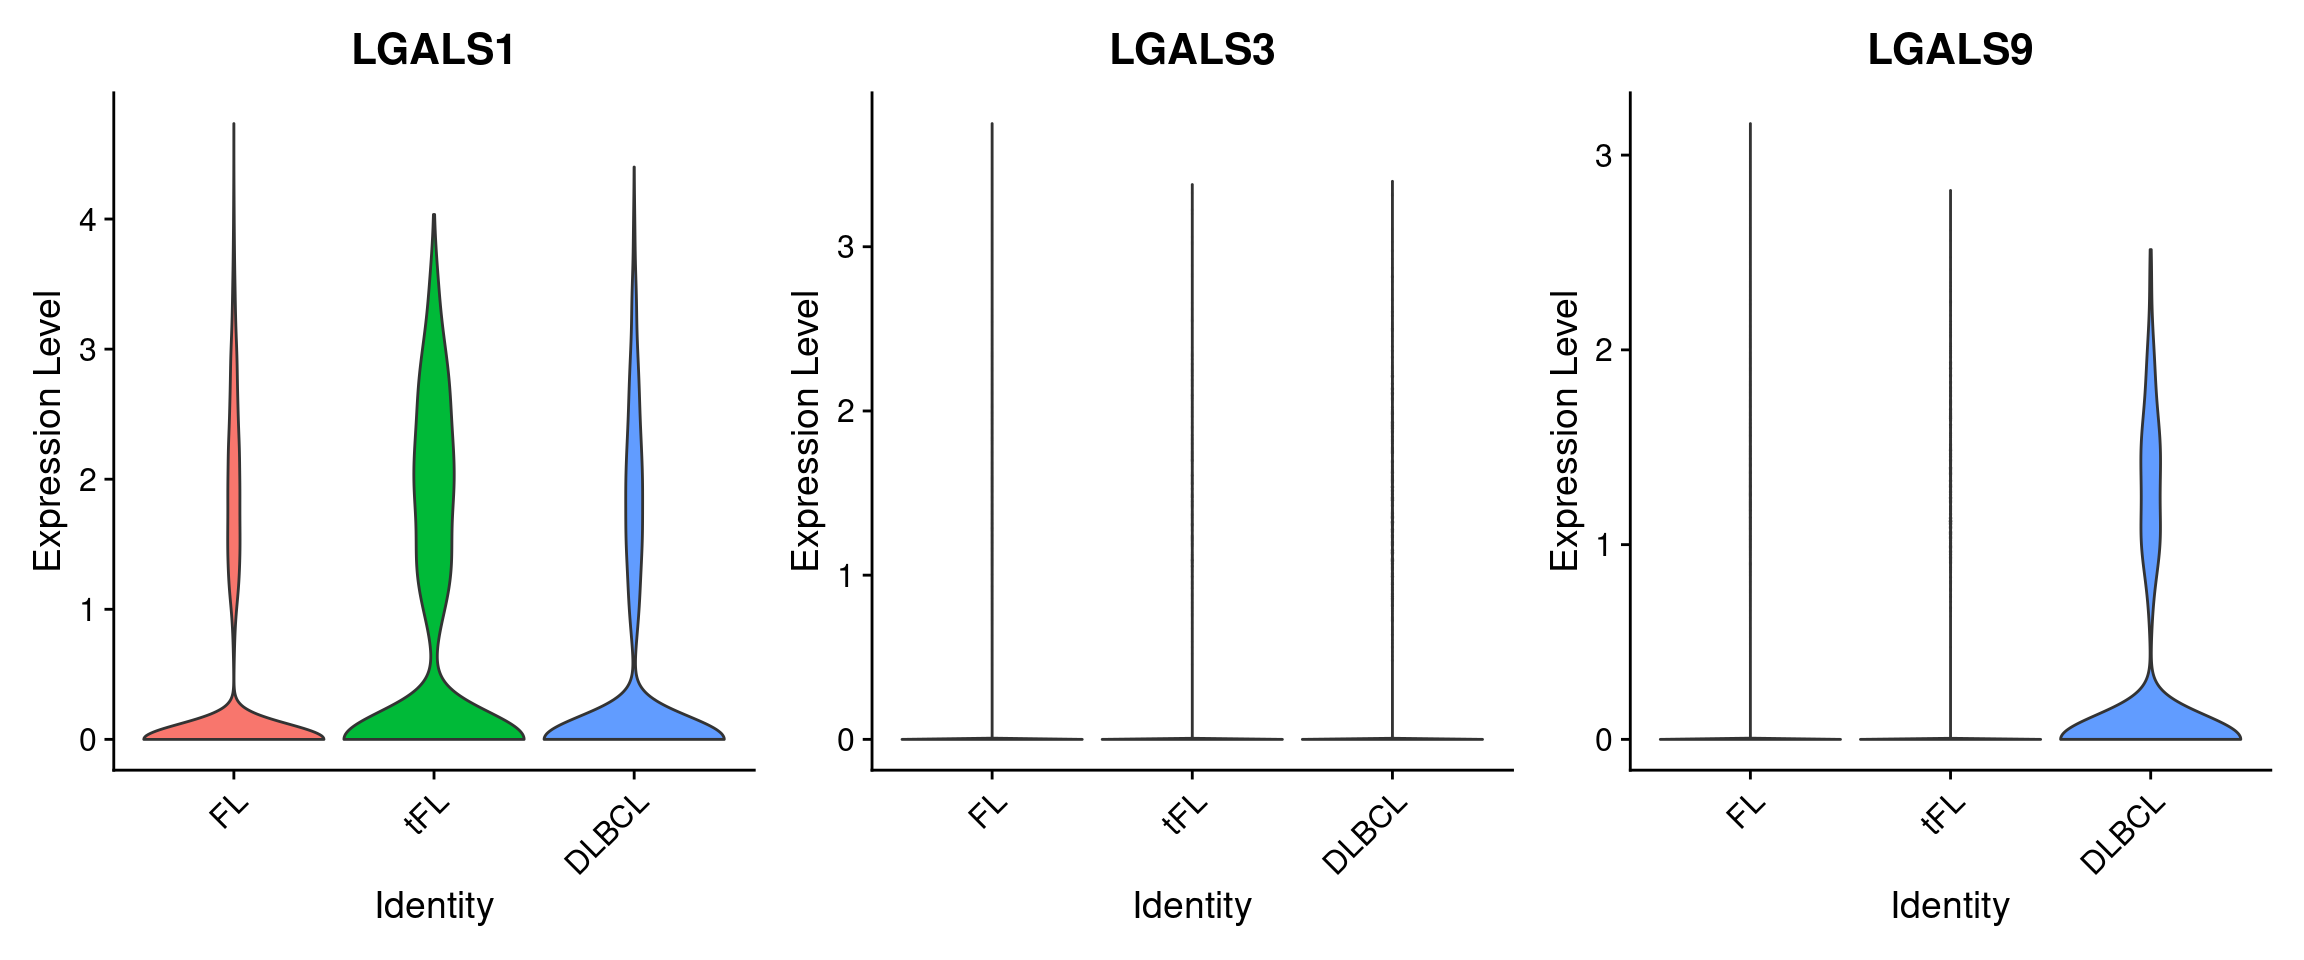
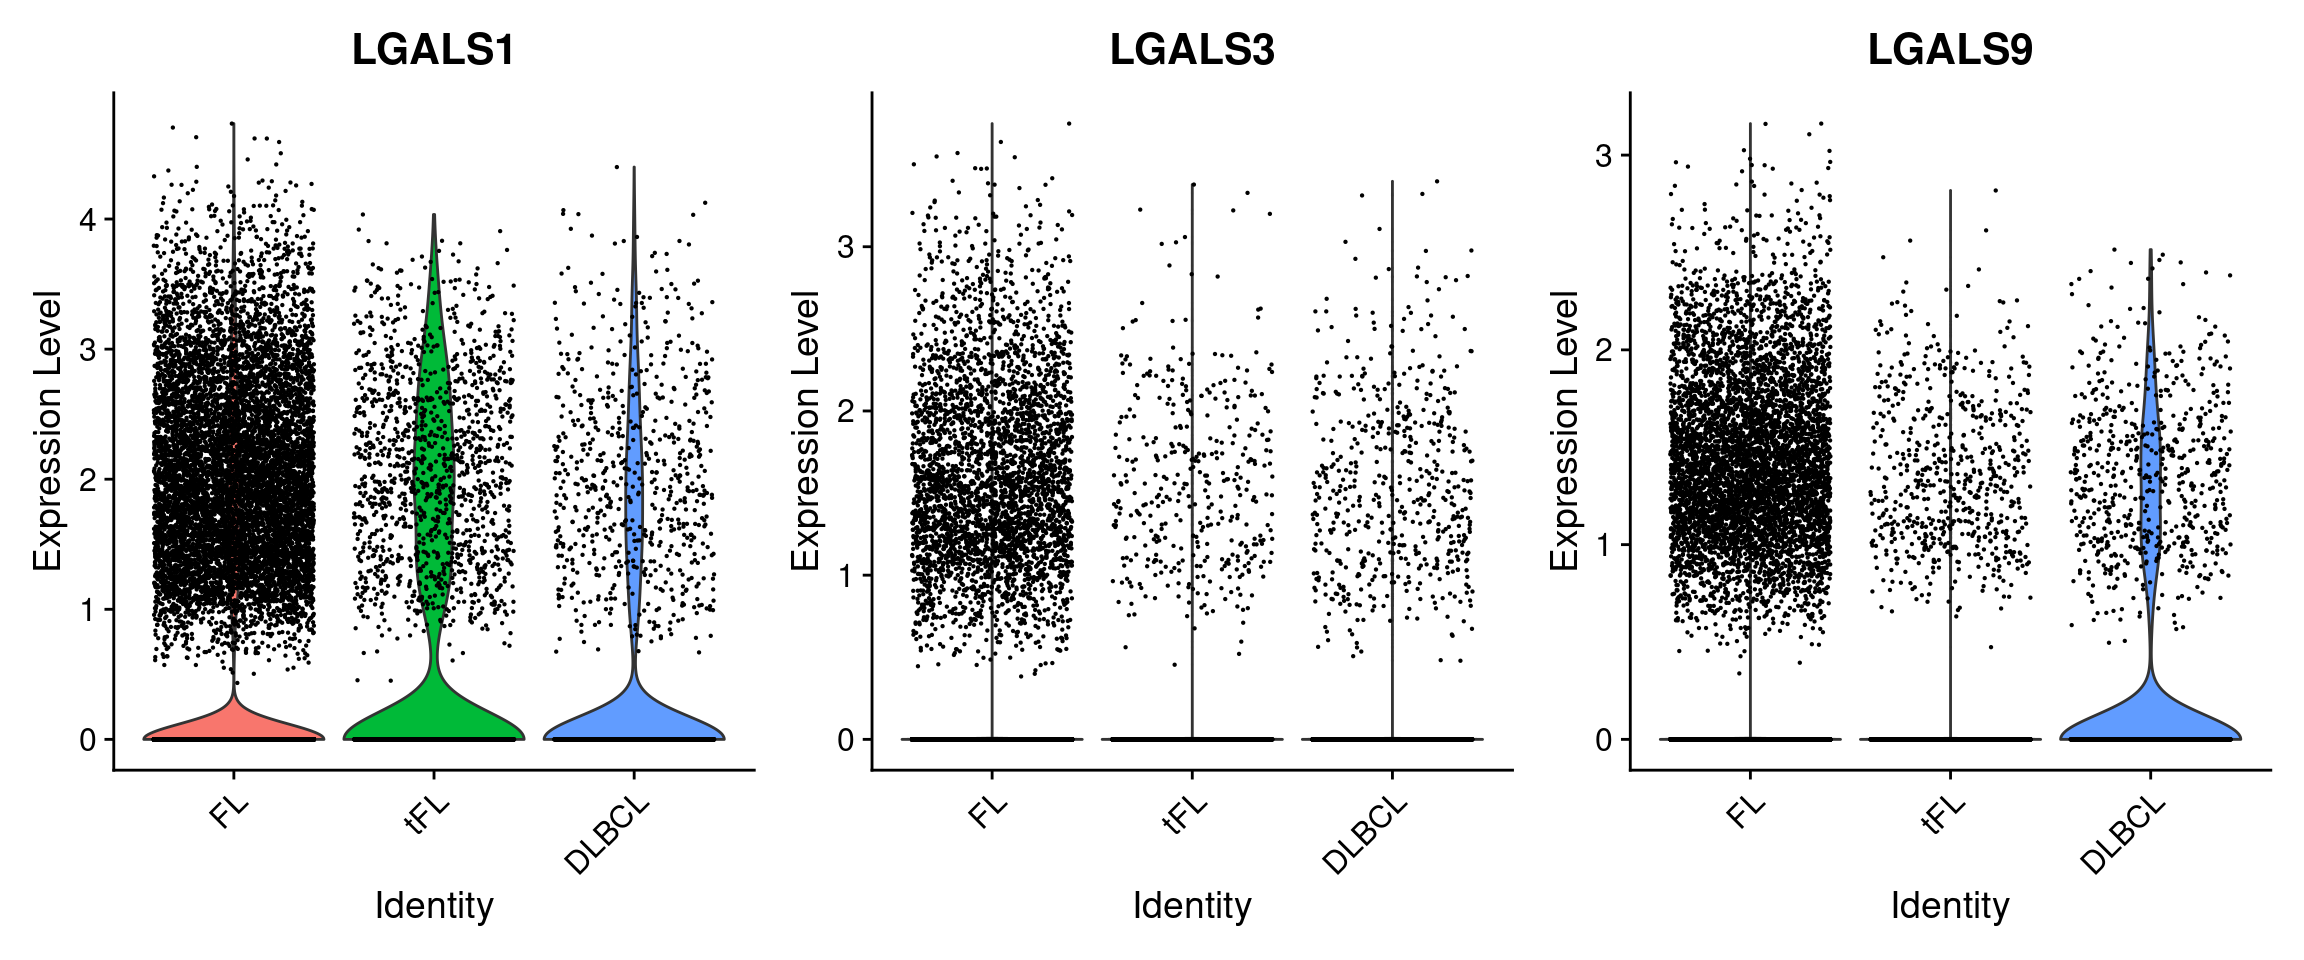
Built site for gh-pages

diff --git a/Sc_RNAseq_GAL9.html b/Sc_RNAseq_GAL9.html
@@ -1713,7 +1713,7 @@ window.document.addEventListener("DOMContentLoaded", function (event) {
 <span id="cb1-415"><a href="#cb1-415" aria-hidden="true" tabindex="-1"></a><span class="fu">VlnPlot</span>(Tcells_TCD4,</span>
 <span id="cb1-416"><a href="#cb1-416" aria-hidden="true" tabindex="-1"></a>        <span class="at">features =</span> <span class="fu">c</span>(<span class="st">"LGALS1"</span>,<span class="st">"LGALS3"</span>,<span class="st">"LGALS9"</span>),</span>
 <span id="cb1-417"><a href="#cb1-417" aria-hidden="true" tabindex="-1"></a>        <span class="at">group.by =</span> <span class="st">"Disease"</span>,</span>
-<span id="cb1-418"><a href="#cb1-418" aria-hidden="true" tabindex="-1"></a>        <span class="at">pt.size =</span> <span class="dv">0</span>,</span>
+<span id="cb1-418"><a href="#cb1-418" aria-hidden="true" tabindex="-1"></a>        <span class="at">pt.size =</span> <span class="fl">0.1</span>,</span>
 <span id="cb1-419"><a href="#cb1-419" aria-hidden="true" tabindex="-1"></a>        <span class="at">raster =</span> <span class="cn">FALSE</span>)</span>
 <span id="cb1-420"><a href="#cb1-420" aria-hidden="true" tabindex="-1"></a><span class="in">```</span></span>
 <span id="cb1-421"><a href="#cb1-421" aria-hidden="true" tabindex="-1"></a>**GAL are expressed in ...**</span>
@@ -1721,7 +1721,7 @@ window.document.addEventListener("DOMContentLoaded", function (event) {
 <span id="cb1-425"><a href="#cb1-425" aria-hidden="true" tabindex="-1"></a><span class="fu">VlnPlot</span>(Tcells_TCD4,</span>
 <span id="cb1-426"><a href="#cb1-426" aria-hidden="true" tabindex="-1"></a>        <span class="at">features =</span> <span class="fu">c</span>(<span class="st">"LGALS1"</span>,<span class="st">"LGALS3"</span>,<span class="st">"LGALS9"</span>),</span>
 <span id="cb1-427"><a href="#cb1-427" aria-hidden="true" tabindex="-1"></a>        <span class="at">group.by =</span> <span class="st">"T_clusters"</span>,</span>
-<span id="cb1-428"><a href="#cb1-428" aria-hidden="true" tabindex="-1"></a>        <span class="at">pt.size =</span> <span class="dv">0</span>,</span>
+<span id="cb1-428"><a href="#cb1-428" aria-hidden="true" tabindex="-1"></a>        <span class="at">pt.size =</span> <span class="fl">0.1</span>,</span>
 <span id="cb1-429"><a href="#cb1-429" aria-hidden="true" tabindex="-1"></a>        <span class="at">raster =</span> <span class="cn">FALSE</span>)</span>
 <span id="cb1-430"><a href="#cb1-430" aria-hidden="true" tabindex="-1"></a><span class="in">```</span></span>
 <span id="cb1-431"><a href="#cb1-431" aria-hidden="true" tabindex="-1"></a></span>

diff --git a/index.html b/index.html
@@ -1713,7 +1713,7 @@ window.document.addEventListener("DOMContentLoaded", function (event) {
 <span id="cb1-415"><a href="#cb1-415" aria-hidden="true" tabindex="-1"></a><span class="fu">VlnPlot</span>(Tcells_TCD4,</span>
 <span id="cb1-416"><a href="#cb1-416" aria-hidden="true" tabindex="-1"></a>        <span class="at">features =</span> <span class="fu">c</span>(<span class="st">"LGALS1"</span>,<span class="st">"LGALS3"</span>,<span class="st">"LGALS9"</span>),</span>
 <span id="cb1-417"><a href="#cb1-417" aria-hidden="true" tabindex="-1"></a>        <span class="at">group.by =</span> <span class="st">"Disease"</span>,</span>
-<span id="cb1-418"><a href="#cb1-418" aria-hidden="true" tabindex="-1"></a>        <span class="at">pt.size =</span> <span class="dv">0</span>,</span>
+<span id="cb1-418"><a href="#cb1-418" aria-hidden="true" tabindex="-1"></a>        <span class="at">pt.size =</span> <span class="fl">0.1</span>,</span>
 <span id="cb1-419"><a href="#cb1-419" aria-hidden="true" tabindex="-1"></a>        <span class="at">raster =</span> <span class="cn">FALSE</span>)</span>
 <span id="cb1-420"><a href="#cb1-420" aria-hidden="true" tabindex="-1"></a><span class="in">```</span></span>
 <span id="cb1-421"><a href="#cb1-421" aria-hidden="true" tabindex="-1"></a>**GAL are expressed in ...**</span>
@@ -1721,7 +1721,7 @@ window.document.addEventListener("DOMContentLoaded", function (event) {
 <span id="cb1-425"><a href="#cb1-425" aria-hidden="true" tabindex="-1"></a><span class="fu">VlnPlot</span>(Tcells_TCD4,</span>
 <span id="cb1-426"><a href="#cb1-426" aria-hidden="true" tabindex="-1"></a>        <span class="at">features =</span> <span class="fu">c</span>(<span class="st">"LGALS1"</span>,<span class="st">"LGALS3"</span>,<span class="st">"LGALS9"</span>),</span>
 <span id="cb1-427"><a href="#cb1-427" aria-hidden="true" tabindex="-1"></a>        <span class="at">group.by =</span> <span class="st">"T_clusters"</span>,</span>
-<span id="cb1-428"><a href="#cb1-428" aria-hidden="true" tabindex="-1"></a>        <span class="at">pt.size =</span> <span class="dv">0</span>,</span>
+<span id="cb1-428"><a href="#cb1-428" aria-hidden="true" tabindex="-1"></a>        <span class="at">pt.size =</span> <span class="fl">0.1</span>,</span>
 <span id="cb1-429"><a href="#cb1-429" aria-hidden="true" tabindex="-1"></a>        <span class="at">raster =</span> <span class="cn">FALSE</span>)</span>
 <span id="cb1-430"><a href="#cb1-430" aria-hidden="true" tabindex="-1"></a><span class="in">```</span></span>
 <span id="cb1-431"><a href="#cb1-431" aria-hidden="true" tabindex="-1"></a></span>
